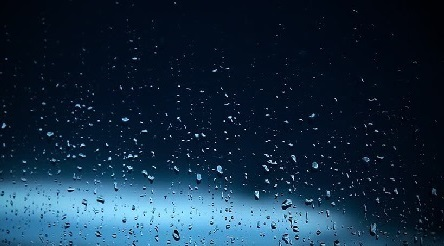
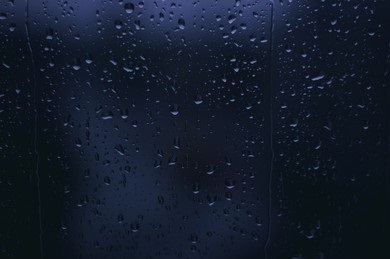
Changed some background weather images so that the text in the cards is more legible.

diff --git a/src/Components/City.jsx b/src/Components/City.jsx
@@ -43,14 +43,14 @@ export default function City({onFilter, onClose, cities}) {
                                 <div className={(cycle&&'tempData')||'nightTempData'}>
                                     <div>
                                         <h1 className='primaryTemp'>{city.temp}°</h1>
-                                        <p style={{margin:0}}>{city.min}° | {city.max}°</p>
+                                        <p className='secTemp'>{city.min}° | {city.max}°</p>
                                     </div>
                                     <div>
                                         <img className='weatherIcon' src={`http://openweathermap.org/img/wn/${ city.img }@2x.png`} alt='icon'/>
                                     </div>
 
                                     <div className='feelsLike'>
-                                        <p style={{margin:'0', 'fontSize':'larger'}}>{city.desc.charAt(0).toUpperCase()+city.desc.slice(1)}</p>
+                                        <p style={{margin:'0', 'fontSize':'larger', fontWeight:700}}>{city.desc.charAt(0).toUpperCase()+city.desc.slice(1)}</p>
                                         <p style={{margin:'0', 'fontSize':'small'}}>Feels like {city.feels_like}°</p>
                                     </div>
                                 </div>

diff --git a/src/Container/App.js b/src/Container/App.js
@@ -141,7 +141,7 @@ function App() {
     <div className="App">
 
       <div className="searchMessage">
-          <img className="searchIcon" src={tick}/>
+          <img className="searchIcon" src={tick} alt='status'/>
           <div>
               <p className="searchState">Success</p>
               <p className="searchHandled">Location found</p>

diff --git a/src/Components/City.css b/src/Components/City.css
@@ -65,6 +65,11 @@
     font-size:40px;
 }
 
+.secTemp{
+    margin:0;
+    font-weight:500;
+}
+
 .weatherIcon{
     margin-left: 25px;
     margin-right: 25px;
@@ -76,6 +81,7 @@
     align-content: center;
     justify-content: center;
     padding-bottom: 15px;
+    font-weight: 500;
 }
 
 .miscData{

diff --git a/src/Components/timeBackgrounds/timeManager.css b/src/Components/timeBackgrounds/timeManager.css
@@ -8,7 +8,6 @@
 
 .Rain{
     background-image: url("./rainy-day.jpg");
-    
 }
 
 .Thunder{
@@ -25,9 +24,6 @@
 
 .NightClouds{
     background-image: url("cloudy-night.jpg");
-    overflow: hidden;
-    background-size: cover;
-    background-position: center;
 }
 
 .NightRain{

diff --git a/src/Components/Card.css b/src/Components/Card.css
@@ -52,7 +52,7 @@
     border-radius: 10px 10px 0 0;
     position: relative;
     color:white;
-    background-color: rgba(0, 0, 0, 0.4);
+    background-color: rgba(0, 0, 0, 0.5);
     text-decoration: none;
     transition: .1s; 
 }
